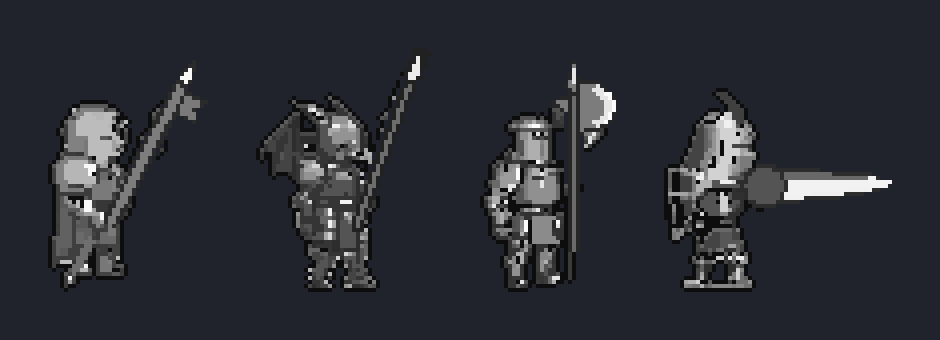
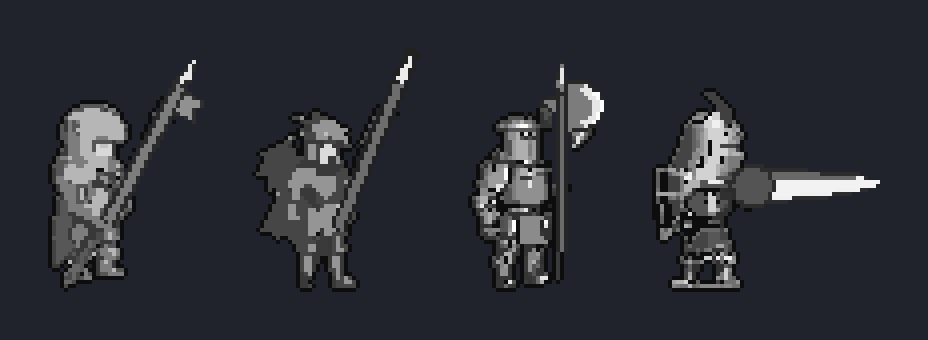
창기사 계열: 사용자 검수 반영 4종 재검수 합격 (용기병 사람 기사·얼굴 투구, 3등신 v11/v12, 랜스 은색, 서코트 천)

diff --git a/dev/review/sheets-spear.html b/dev/review/sheets-spear.html
@@ -37,25 +37,25 @@
   </ul>
 </div>
 
-<h2>◆ 도트 검수 합격 대표 4종 (2026-10-17) — 창기사 · 용기병 · 할버디어 · 랜서</h2>
-<div class="box"><b>흐름</b> (사용자 지시 "컨셉에만 알맞게 새로" · "도트 퀄리티 검수 에이전트로 통과시켜"):
-<ol><li>직업별 3등신 도트 마네킹 가이드 + 컨셉 프롬프트 → ComfyUI (<code>dev/spear/design5.py</code>). 1차(v4) 16장은 검수 합격 0 — 창 1~2px·어두운 한 톤·체형 가이드 약함.</li>
-<li>46칸 직접 축소본으로 형태(의도·읽힘·규칙) 순위 → 직업별 1장 (<code>qa/rank-*.json</code>).</li>
-<li>PixelLab image-to-pixelart 256→64 직업당 1회 + 창기사 재정리 1회 (로드맵 승인, 재시도 0) → 검사 세션 polish.</li>
-<li>스크립트 수리 (<code>fix.py</code>, 손 픽셀 수정 없음): 용기병 얼룩 정리·배 띠·노란 눈 / 할버디어 주황 서코트·어깨 넓히기 / 랜서 파랑 서코트·빨강 볏·방패.</li>
-<li>무기 바꾸기 (<code>pix.py wpnfix</code>): 정리본에서 무기 직선을 찾아 지우고 코드로 그린 무기를 얹음 — 창·용창 3px, 할버드 3단 명암 반달 도끼날·갈고리·창끝, 끊김 없는 원뿔 랜스·둥근 보호대.</li>
-<li>검수: <code>dev/pixel-qa/qa.py --kind char</code> → 비평(<code>critic.md</code>). 목표 문장에 사용자 지적 4건(잡졸·장수풍뎅이·배불뚝이·가는 창)과 같은 계열 실루엣 겹침. 합격선: 전 항목 3+ · 평균 3.5.</li></ol>
-PixelLab 누계 usage 16 (마네킹 11 + 정리 5). 검수 비평 반복: 창기사 4회 · 용기병 3회 · 할버디어 5회 · 랜서 4회.</div>
+<h2>◆ 도트 검수 합격 4종 — 사용자 검수 반영판 (2026-10-17) · 창기사 · 용기병 · 할버디어 · 랜서</h2>
+<div class="box"><b>사용자 검수 반영</b>: "용기병은 사람기사로가야해" → 사람 기사 + 용 투구(얼굴 보임), 꼬리 없음 · 할버디어 허벅지 살색 → 천 서코트 · 랜서 사탕 줄무늬 랜스 → 은색 원뿔 + 파란 손잡이·보호대.
+<ol><li>재검수(r2)에서 같은 그림이 "6등신 사실 비율"로 지적돼 3등신 큰 머리 문구(<code>design5.py CHIBI</code>)로 다시 생성(v11) → 할버디어·랜서 합격.</li>
+<li><b>교훈: 닫힌 투구는 46px 에서 얼굴 없는 덩어리</b> — 창기사 '회색 골렘' 2.86, 용기병 '가고일' 3.14. 그림체 B 기준(마법사·레인저)은 얼굴이 보이므로 얼굴 트인 투구로 v12 (창기사 sallet, 용기병 = 용 윗턱이 이마를 덮고 아래 사람 얼굴).</li>
+<li>ComfyUI 단계에서 비율·용 투구를 먼저 비평 통과 → 1장만 PixelLab image-to-pixelart. 정리본과 축소본(<code>pix.py postsh</code>) 둘 다 검수 — 축소본은 얼굴이 사라져 낮음(창기사 3.29, 용기병 3.00) → 정리본 채택.</li>
+<li>스크립트 수리(손 픽셀 없음): 색 줄이기 <code>pix.py reduce</code>(적게 쓰인 색부터 합치기·채도 벌점·살색 가중 — median-cut 이 볏·서코트·얼굴을 지웠다), 판금 면 정리 <code>fix.plate_flat</code>(4단 + 외톨이 점 흡수), 녹색·보라·파랑 램프, 코드 무기(창·용창 자루 4칸, 은색 3단 랜스).</li></ol>
+PixelLab 계열 누계 usage 23 (로드맵 승인 cap 23).</div>
 <div class="tabs" id="v5tabs"></div>
 <div class="scroll box"><img class="px" id="v5img" alt="합격 줄 세우기"></div>
+<p class="sub">그림체 일치 — 마법사·전격술사·레인저·저격수(합격 기준)와 나란히:</p>
+<div class="scroll box"><img class="px" src="sheets-spear/v5/style-match.png" alt="계열 간 그림체 비교"></div>
 <table>
-  <tr><th>직업</th><th>점수 의도/읽힘/깔끔/명암/도트/움직임/규칙</th><th>평균</th><th>판정</th><th>남은 흠 (비평, 선택 손질)</th><th>검수 시트</th></tr>
-  <tr><td>창기사</td><td>3/4/3/3/3/5/4</td><td>3.57</td><td class="ok">pass</td><td>녹색이 깃발에만, 판금 하이라이트가 점처럼</td><td><a href="sheets-spear/v5/lancer-sheet.png">보기</a></td></tr>
-  <tr><td>용기병</td><td>3/4/3/3/3/5/4</td><td>3.57</td><td class="ok">pass</td><td>3등신보다 길쭉, 창끝이 용 이빨로 덜 읽힘, 배 띠가 붕대처럼</td><td><a href="sheets-spear/v5/dragoon-sheet.png">보기</a></td></tr>
-  <tr><td>할버디어</td><td>3/4/3/3/3/5/4</td><td>3.57</td><td class="ok">pass</td><td>투구가 작아 4등신 쪽, 어깨 잡점, 서코트 작음</td><td><a href="sheets-spear/v5/halberdier-sheet.png">보기</a></td></tr>
-  <tr><td>랜서</td><td>4/4/3/3/3/5/4</td><td>3.71</td><td class="ok">pass</td><td>몸통·다리가 어둡게 뭉침, 볏이 가늚, 랜스 평면색</td><td><a href="sheets-spear/v5/cavalier-sheet.png">보기</a></td></tr>
+  <tr><th>직업</th><th>그림</th><th>점수 의도/읽힘/깔끔/명암/도트/움직임/규칙</th><th>평균</th><th>판정</th><th>남은 흠 (비평)</th><th>검수 시트</th></tr>
+  <tr><td>창기사</td><td><code>lancer12-11</code></td><td>3/3/4/3/4/5/3</td><td>3.57</td><td class="ok">pass</td><td>녹색이 망토·깃발·목에만, 투구와 몸통이 한 덩어리, 창이 몸 앞을 가로지름</td><td><a href="sheets-spear/v5/lancer-sheet.png">보기</a></td></tr>
+  <tr><td>용기병</td><td><code>dragoon12-51</code></td><td>3/3/4/3/3/5/4</td><td>3.57</td><td class="ok">pass</td><td>용 투구 주둥이·뿔이 46px 에서 '뾰족한 투구'로만, 보라 한 톤, 창끝이 용 이빨로 안 읽힘, 머리가 조금 작음</td><td><a href="sheets-spear/v5/dragoon-sheet.png">보기</a></td></tr>
+  <tr><td>할버디어</td><td><code>halberdier11-51</code></td><td>3/4/4/3/4/5/3</td><td>3.71</td><td class="ok">pass</td><td>역삼각 어깨 약함, 주황 서코트가 작은 앞치마, 뒤 갈고리 작음</td><td><a href="sheets-spear/v5/halberdier-sheet.png">보기</a></td></tr>
+  <tr><td>랜서</td><td><code>cavalier11-11</code></td><td>3/4/3/4/3/5/4</td><td>3.71</td><td class="ok">pass</td><td>랜스 원뿔 음영 약해 긴 칼처럼 읽힐 여지, 파랑 서코트 작음, 방패 존재감 약함</td><td><a href="sheets-spear/v5/cavalier-sheet.png">보기</a></td></tr>
 </table>
-<p class="sub">같은 계열 실루엣 겹침(IoU, 발 맞춤): 창기사–할버디어 0.67 · 창기사–용기병 0.58 · 용기병–할버디어 0.56 · 랜서–나머지 0.40~0.44 (모두 0.8 미만).</p>
+<p class="sub">같은 계열 실루엣 겹침(IoU, 발 맞춤): 창기사–용기병 0.61 · 용기병–할버디어 0.64 · 창기사–할버디어 0.52 · 랜서–나머지 0.26~0.40 (모두 0.8 미만).</p>
 
 <h2>▣ 새 디자인 시안 — 그림체 B(3등신) · 키 46px (2026-10-16, PixelLab 0회 · ComfyUI 20장)</h2>
 <div class="box"><b>사용자 확정</b>: 그림체 B(3등신), 게임 안 키 1.3배(약 46px). 기준 시안은 검사 세션 <code>sheets-sword.html</code> ▣ 절.

diff --git a/dev/spear/pix.py b/dev/spear/pix.py
@@ -27,7 +27,8 @@ FIX = {'lancer': ('surcoat_green',),          # 검수 r2: 녹색 없음
        'halberdier': ('surcoat_orange', 'tabard', 'shoulders'),   # tabard: 반바지처럼 갈린 주황 → 한 장 서코트 (로드맵 2026-10-17)
        'cavalier': ('surcoat_blue', 'red_up')}
 # v11 3등신 재정리본 (SPEC 키별): 이미 색이 맞아 수리가 적다. 용기병만 은→보라 판금
-FIX.update({'lancer11': ('green_up',), 'dragoon11': ('purple_light',), 'halberdier11': (), 'cavalier11': ('surcoat_blue',)})   # 정리본 녹색·파랑이 탁하고 작다
+FIX.update({'lancer12': ('green_up', 'plate_flat'), 'dragoon12': ('plate_flat', 'purple_light'),   # plate_flat: 검수 r4 점박이 잡음
+             'lancer11': ('green_up',), 'dragoon11': ('purple_light',), 'halberdier11': (), 'cavalier11': ('surcoat_blue',)})   # 정리본 녹색·파랑이 탁하고 작다
 # 무기를 얹은 뒤 하는 수리: 용기병 노란 눈 (무기 색을 빼야 머리 앞 끝을 찾는다)
 AFTER = {'dragoon': ('eye_after',)}
 FIST = set()             # v6 정리본은 쥔 손이 보임
@@ -102,8 +103,10 @@ def reduce(im, n):
     rep = {c: c for c in cnt}
     ch = lambda c: max(c) - min(c)
     d2 = lambda a, b: 3 * (a[0] - b[0]) ** 2 + 4 * (a[1] - b[1]) ** 2 + 2 * (a[2] - b[2]) ** 2 + 12 * (ch(a) - ch(b)) ** 2   # 채도 차 벌점: 유채색이 회색에 먹히지 않게
+    skin = lambda c: c[0] > 150 and c[0] - c[2] > 30 and c[1] > 100 and c[0] - c[1] < 70     # 얼굴 살색: 칸이 적어도 합칠 차례를 늦춘다 (창기사 v12 얼굴이 사라졌다)
+    wt = lambda c: cnt[c] * (6 if skin(c) else 1)
     while len(cnt) > n:
-        c = min(cnt, key=cnt.get); k = cnt.pop(c)
+        c = min(cnt, key=wt); k = cnt.pop(c)
         t = min(cnt, key=lambda o: d2(c, o)); cnt[t] += k
         for a in rep:
             if rep[a] == c: rep[a] = t
@@ -127,9 +130,22 @@ def POL_comps(im):
     return out
 
 
-def post(name):
+def shrink64(name):
+    """축소본 (로드맵 2026-10-17, 검사 계열 교훈: 시안이 46칸에서 이미 또렷하면 image-to-pixelart 가 손·표정을 지운다):
+    원본을 공용 shrink_body 로 몸 키 46칸 도트로 줄여 정리본(64)과 같은 자리(발 y=60, 가운데 x=32)에 놓는다 → work/<cls>/<name>-sh-0.png"""
+    from shrink import shrink_body
+    cls, _ = parse(name)
+    im = Image.open(os.path.join(RAW, name + '.png')).convert('RGB'); top, foot = body_bounds(im)
+    o = shrink_body(im, top, foot, BODY, shadow=False).convert('RGBA'); bb = o.getbbox(); o = o.crop(bb)
+    c = Image.new('RGBA', (OUTN, OUTN), (200, 200, 204, 255))       # 정리본처럼 단색 바탕 (unbg 가 뗀다)
+    c.alpha_composite(o, (OUTN // 2 - o.width // 2, OUTN - 4 - o.height))
+    c.save(os.path.join(HERE, 'work', cls, f'{name}-sh-0.png'))
+
+
+def post(name, src='pl'):
     cls, sk = parse(name)
-    raw = Image.open(os.path.join(HERE, 'work', cls, f'{name}-pl-0.png')).convert('RGBA')
+    if src == 'sh': shrink64(name)
+    raw = Image.open(os.path.join(HERE, 'work', cls, f'{name}-{src}-0.png')).convert('RGBA')
     clean = POL.unbg(raw); bb = clean.getbbox(); clean = clean.crop(bb)
     # v11: 공용 polish 의 14색 줄이기가 작은 색 영역(녹색 서코트·빨간 볏·주황 천)을 회색에 섞어 지운다 → 20색으로 (공용 파일은 그대로)
     pol = POL.rim(POL.outline(POL.despeckle((reduce(clean.copy(), 22) if sk != cls else POL.quant(clean.copy(), 14)))))   # 손질 먼저 (무기 색이 14색 줄이기에 섞여 몸 색이 탁해지지 않게)
@@ -150,10 +166,11 @@ def post(name):
             if len(c) < 6 and len(c) < big:
                 for p_ in c: P_[p_] = (0, 0, 0, 0)
     pol = reduce(pol, 18) if sk != cls else POL.quant(pol, 20)   # 위 테 밝히기·무기 색으로 25~30색이 돼 색 경보(>24) → 마지막에 20색
-    clean.save(os.path.join(PL, f'{name}-clean.png')); pol.save(os.path.join(PL, f'{name}-polish.png'))
+    tag = '' if src == 'pl' else '-sh'
+    clean.save(os.path.join(PL, f'{name}{tag}-clean.png')); pol.save(os.path.join(PL, f'{name}{tag}-polish.png'))
     print(name, 'clean', clean.size, 'polish', pol.size)
 
 
 if __name__ == '__main__':
-    fn = {'prep': prep, 'post': post}[sys.argv[1]]
+    fn = {'prep': prep, 'post': post, 'postsh': lambda n: post(n, 'sh')}[sys.argv[1]]
     for n in sys.argv[2:]: fn(n)

diff --git a/dev/spear/fix.py b/dev/spear/fix.py
@@ -174,6 +174,40 @@ def purple_plate(im, ramp=((30, 24, 48), (64, 52, 98), (104, 90, 146), (150, 138
     return im
 
 
+def plate_flat(im, levels=4, passes=2):
+    """판금 면 정리 (검수 r4 "갑옷 전체가 회색 점박이 잡음, 명암 면이 안 섬"): 무채색 칸을 밝기 분위수로 4단 회색에 다시 넣고,
+    8이웃 중 5칸 이상이 같은 색이면 그 색으로 흡수해 큰 면을 만든다. 맨 밝은 단은 하이라이트로 남긴다"""
+    im = im.copy(); P = im.load(); W, H = im.size
+    gray = lambda c: c[3] and c != OUT and _hls(c)[2] < 0.18
+    pts = [(x, y) for y in range(H) for x in range(W) if gray(P[x, y])]
+    if len(pts) < 20: return im
+    vals = sorted(lum(P[p]) for p in pts)
+    cut = [vals[int(len(vals) * k / levels)] for k in range(1, levels)]
+    ramp = []
+    for k in range(levels):
+        band = [P[p] for p in pts if sum(lum(P[p]) >= c for c in cut) == k]
+        ramp.append(tuple(round(sum(c[i] for c in band) / len(band)) for i in range(3)) + (255,) if band else (128, 128, 128, 255))
+    for p in pts: P[p] = ramp[sum(lum(P[p]) >= c for c in cut)]
+    # 몸 안쪽에 갇힌 외곽선색 점(4이웃이 모두 몸 칸이고 그중 3칸 이상 판금) → 판금 다수색 (검수 r4 "점박이")
+    for y in range(1, H - 1):
+        for x in range(1, W - 1):
+            if P[x, y] != OUT: continue
+            n4 = [P[x + 1, y], P[x - 1, y], P[x, y + 1], P[x, y - 1]]
+            if all(c[3] for c in n4):
+                g = [c for c in n4 if c in ramp]
+                if len(g) >= 3: P[x, y] = max(set(g), key=g.count); pts.append((x, y))
+    S = set(pts)
+    for _ in range(passes):
+        ch = []
+        for (x, y) in pts:
+            nb = [P[x + a, y + b] for a in (-1, 0, 1) for b in (-1, 0, 1) if (a or b) and (x + a, y + b) in S]
+            if nb:
+                best = max(set(nb), key=nb.count)
+                if nb.count(best) >= 5 and best != P[x, y] and P[x, y] != ramp[-1]: ch.append(((x, y), best))
+        for p, c in ch: P[p] = c
+    return im
+
+
 def purple_light(im):
     """용기병 v11: purple_plate 를 한 단 밝게 (어두운 보라 덩어리로 뭉침)"""
     return purple_plate(im, ((40, 30, 66), (84, 66, 132), (130, 110, 184), (176, 160, 222), (230, 224, 250)))

diff --git a/dev/spear/plx.py b/dev/spear/plx.py
@@ -8,7 +8,7 @@ HERE = os.path.dirname(os.path.abspath(__file__))
 sys.path.insert(0, os.path.join(HERE, '..', 'pixellab'))
 from pl import call
 
-CAP = 22          # 로드맵 승인: 원형 마네킹 usage 11 + 기준 그림 정리 직업당 1회 7 (2026-10-17) + v11 3등신 재정리 4 (2026-10-17, 재시도 0)
+CAP = 23          # 로드맵 승인: 원형 마네킹 usage 11 + 기준 그림 정리 직업당 1회 7 (2026-10-17) + v11 3등신 재정리 4 (2026-10-17, 재시도 0) + v12 얼굴 투구 2 (2026-10-17, 재시도 0)
 FLOOR = 300
 LOG = os.path.join(HERE, 'usage.md')
 STATE = os.path.join(HERE, 'usage.json')

diff --git a/docs/specs/legacy-class-sheets.md b/docs/specs/legacy-class-sheets.md
@@ -208,6 +208,7 @@
 - 2026-10-17 창기사 계열 새 디자인 4종 도트 검수 합격 (창기사·용기병·할버디어 3.57, 랜서 3.71): 직업별 3등신 도트 마네킹 가이드 + 컨셉 프롬프트 ComfyUI(`dev/spear/design5.py`) → 형태 순위 → PixelLab image-to-pixelart 256→64 직업당 1회 + 창기사 재정리 1회(로드맵 승인) → polish → 스크립트 수리(`fix.py`) → 정리본에서 무기 직선을 찾아 코드 무기로 바꾸기(`pix.py wpnfix`: 3px 창, 3단 반달 할버드, 끊김 없는 원뿔 랜스) → `qa.py --kind char` + 비평(목표 문장에 사용자 지적 4건·실루엣 IoU). 1차(v4) 16장 합격 0 의 원인: 1024→46 축소로 창이 1~2px, 어두운 한 톤, 체형 가이드 약함. PixelLab 누계 16. 검토 `sheets-spear.html` ◆절. 다음: 관절 애니 시험(창기사 찌르기 8f, usage 3) 계획서 승인 대기.
 - 2026-10-17: **검사 계열 2차 4종 기준 그림 검수 합격** (독립 비평 2개 모두 합격일 때만 합격 — 같은 그림 판정이 3.17~4.0 으로 흔들려서 정한 규칙. 평균은 critic.md 대로 7항목). 검사 `design/pl2/clean-swordsman.png` 3.86·3.86 · 성기사 `fix-paladin.png`(면갑본 + `fix_paladin_gold.py` 금 십자 방패·가슴 문장·어깨 금띠) 3.71·3.57 · 검성 `fix2-blademaster-n7.png`(ComfyUI N7 흰 가면 46칸 축소 + `fix_bm_eye.py`) 3.86·3.86 · 대검전사 `fix-greatswordsman-n8.png`(밑그림 `mannequin_gs2.py` 두 주먹이 자루 → N8-97 축소 + `fix_gs_hand.py`) 3.57·4.0. 나란히(컬러·흑백·실루엣) `lineup.py` → 검토 페이지 ✔ 절. PixelLab 이번 3(대검전사 N6-37 변환 → 손 없음으로 버림, 검성 N7-77·대검전사 N8-97 변환 → 둘 다 축소본보다 낮아 버림, 로드맵 승인 수리안대로 축소본 채택), 계열 누적 28. 교훈: ComfyUI 시안이 이미 46칸에서 또렷하면 image-to-pixelart 가 오히려 손·표정을 지운다 — 3등신 시안부터는 축소+스크립트 수리를 먼저 검수하고 변환은 그게 안 될 때만.
 
+- 2026-10-17 창기사 계열 사용자 검수 반영 ("용기병은 사람기사로가야해", 할버디어 허벅지 살색, 랜서 사탕 줄무늬 랜스): 목표 문장 실패 조건에 '용인간·짐승 몸', '맨허벅지처럼 보임', '사탕 줄무늬' 추가. 랜스 = 은색 3단 원뿔(밑동 9칸) + 파란 손잡이·보호대, 창·용창 자루 4칸. 재검수(r2)에서 같은 그림이 6등신 비율로 지적돼 3등신 큰 머리 문구(`design5.py CHIBI`)로 v11 재생성 → 할버디어 halberdier11-51 3.71 · 랜서 cavalier11-11 3.71 합격. **교훈: 닫힌 투구는 46px 에서 얼굴 없는 덩어리가 된다** — 창기사 v11 '회색 골렘' 2.86, 용기병 v11 '가고일' 3.14. 그림체 B 기준(마법사·레인저)은 얼굴이 보이므로 얼굴 트인 투구(창기사 sallet, 용기병 = 용 윗턱이 이마를 덮고 아래 사람 얼굴)로 v12. 후처리 교훈: 공용 polish 의 median-cut 14색이 작은 색 영역(빨간 볏·파랑 서코트·녹색·얼굴 살색)을 회색에 섞어 지운다 → `pix.py reduce`(적게 쓰인 색부터 가까운 색에 합치기, 채도 차 벌점, 살색 가중) 18색. 축소본(`pix.py postsh`, PixelLab 없이 shrink_body)도 같이 검수(검사 계열 교훈) — 이 계열은 축소본이 얼굴을 잃어 낮음(창기사 3.29, 용기병 3.00) → 정리본 채택. 판금 점박이는 `fix.plate_flat`(4단 + 외톨이 점 흡수). **4종 재검수 합격**: 창기사 lancer12-11 3.57 · 용기병 dragoon12-51 3.57 · 할버디어 halberdier11-51 3.71 · 랜서 cavalier11-11 3.71, 실루엣 IoU 0.26~0.64. PixelLab 누계 23 (cap 23, 로드맵 승인). 검토 `sheets-spear.html` ◆절(lineup + 마법사·레인저와 그림체 비교). 사용자 확인 대기. 다음: 관절 애니 시험(창기사 찌르기 8f) — 첫 프레임은 무기 없는 중립 대기(필요하면 edit-image-pixen 1회), 손 위치에서 관절 각도 역산(레인저 교훈).
 ## 남은 일 / 미정
 - 2026-10-17 (로드맵, 레인저 교훈): skeleton-v3 는 첫 프레임이 무기를 겨눈 자세면 팔 관절을 따르지 않고 그 팔 모양을 지킨다(다리는 따름). 관절 애니 첫 프레임은 "팔 내린 중립 대기·빈손·무기 없음"으로 — 기준 그림이 무기를 든 자세면 계획서에 `edit-image-pixen` 중립 편집 1회(usage 1)를 넣는다. 첫 프레임 뼈 길이에 맞추면 팔이 짧아지니 목표 손 위치에서 관절 각도를 역산(레인저 `skelgen.py` `solve_hands` 참고).
 - 2026-10-16 레인저 계열 보류 (로드맵 검수 요청): 덧그리기 전 PixelLab 원본(마네킹)을 몽타주로 확인 — 활 쏘기는 뒷손 시위 당김이 없고 앞팔만 조금(손 약 4도트), 석궁 쏘기는 거의 정지, 공성 쏘기만 반동이 보임, 활 하늘 쏘기는 팔을 머리 위로 치켜듦(당기기 없음), 걷기 3종은 좋음. 검사 계열과 같은 "공격 때 몸·팔이 안 움직임" 문제가 원본부터 있다. 남은 PixelLab 호출 없음(usage 12 그대로), approved.txt 비움, SHEET_ON false. 확인 `dev/bowsheets/motion.py`, 검토 0-1절.

diff --git a/dev/spear/usage.md b/dev/spear/usage.md
@@ -20,3 +20,5 @@
 | 14 | dragoon | `/image-to-pixelart` | dragoon11-51-pl: 기준 그림 정리 256→64 | 1.0 | 19.0 | 1070.0 |
 | 15 | halberdier | `/image-to-pixelart` | halberdier11-51-pl: 기준 그림 정리 256→64 | 1.0 | 20.0 | 1069.0 |
 | 16 | cavalier | `/image-to-pixelart` | cavalier11-11-pl: 기준 그림 정리 256→64 | 1.0 | 21.0 | 1068.0 |
+| 17 | lancer | `/image-to-pixelart` | lancer12-11-pl: 기준 그림 정리 256→64 | 1.0 | 22.0 | 1054.0 |
+| 18 | dragoon | `/image-to-pixelart` | dragoon12-51-pl: 기준 그림 정리 256→64 | 1.0 | 23.0 | 1052.0 |
